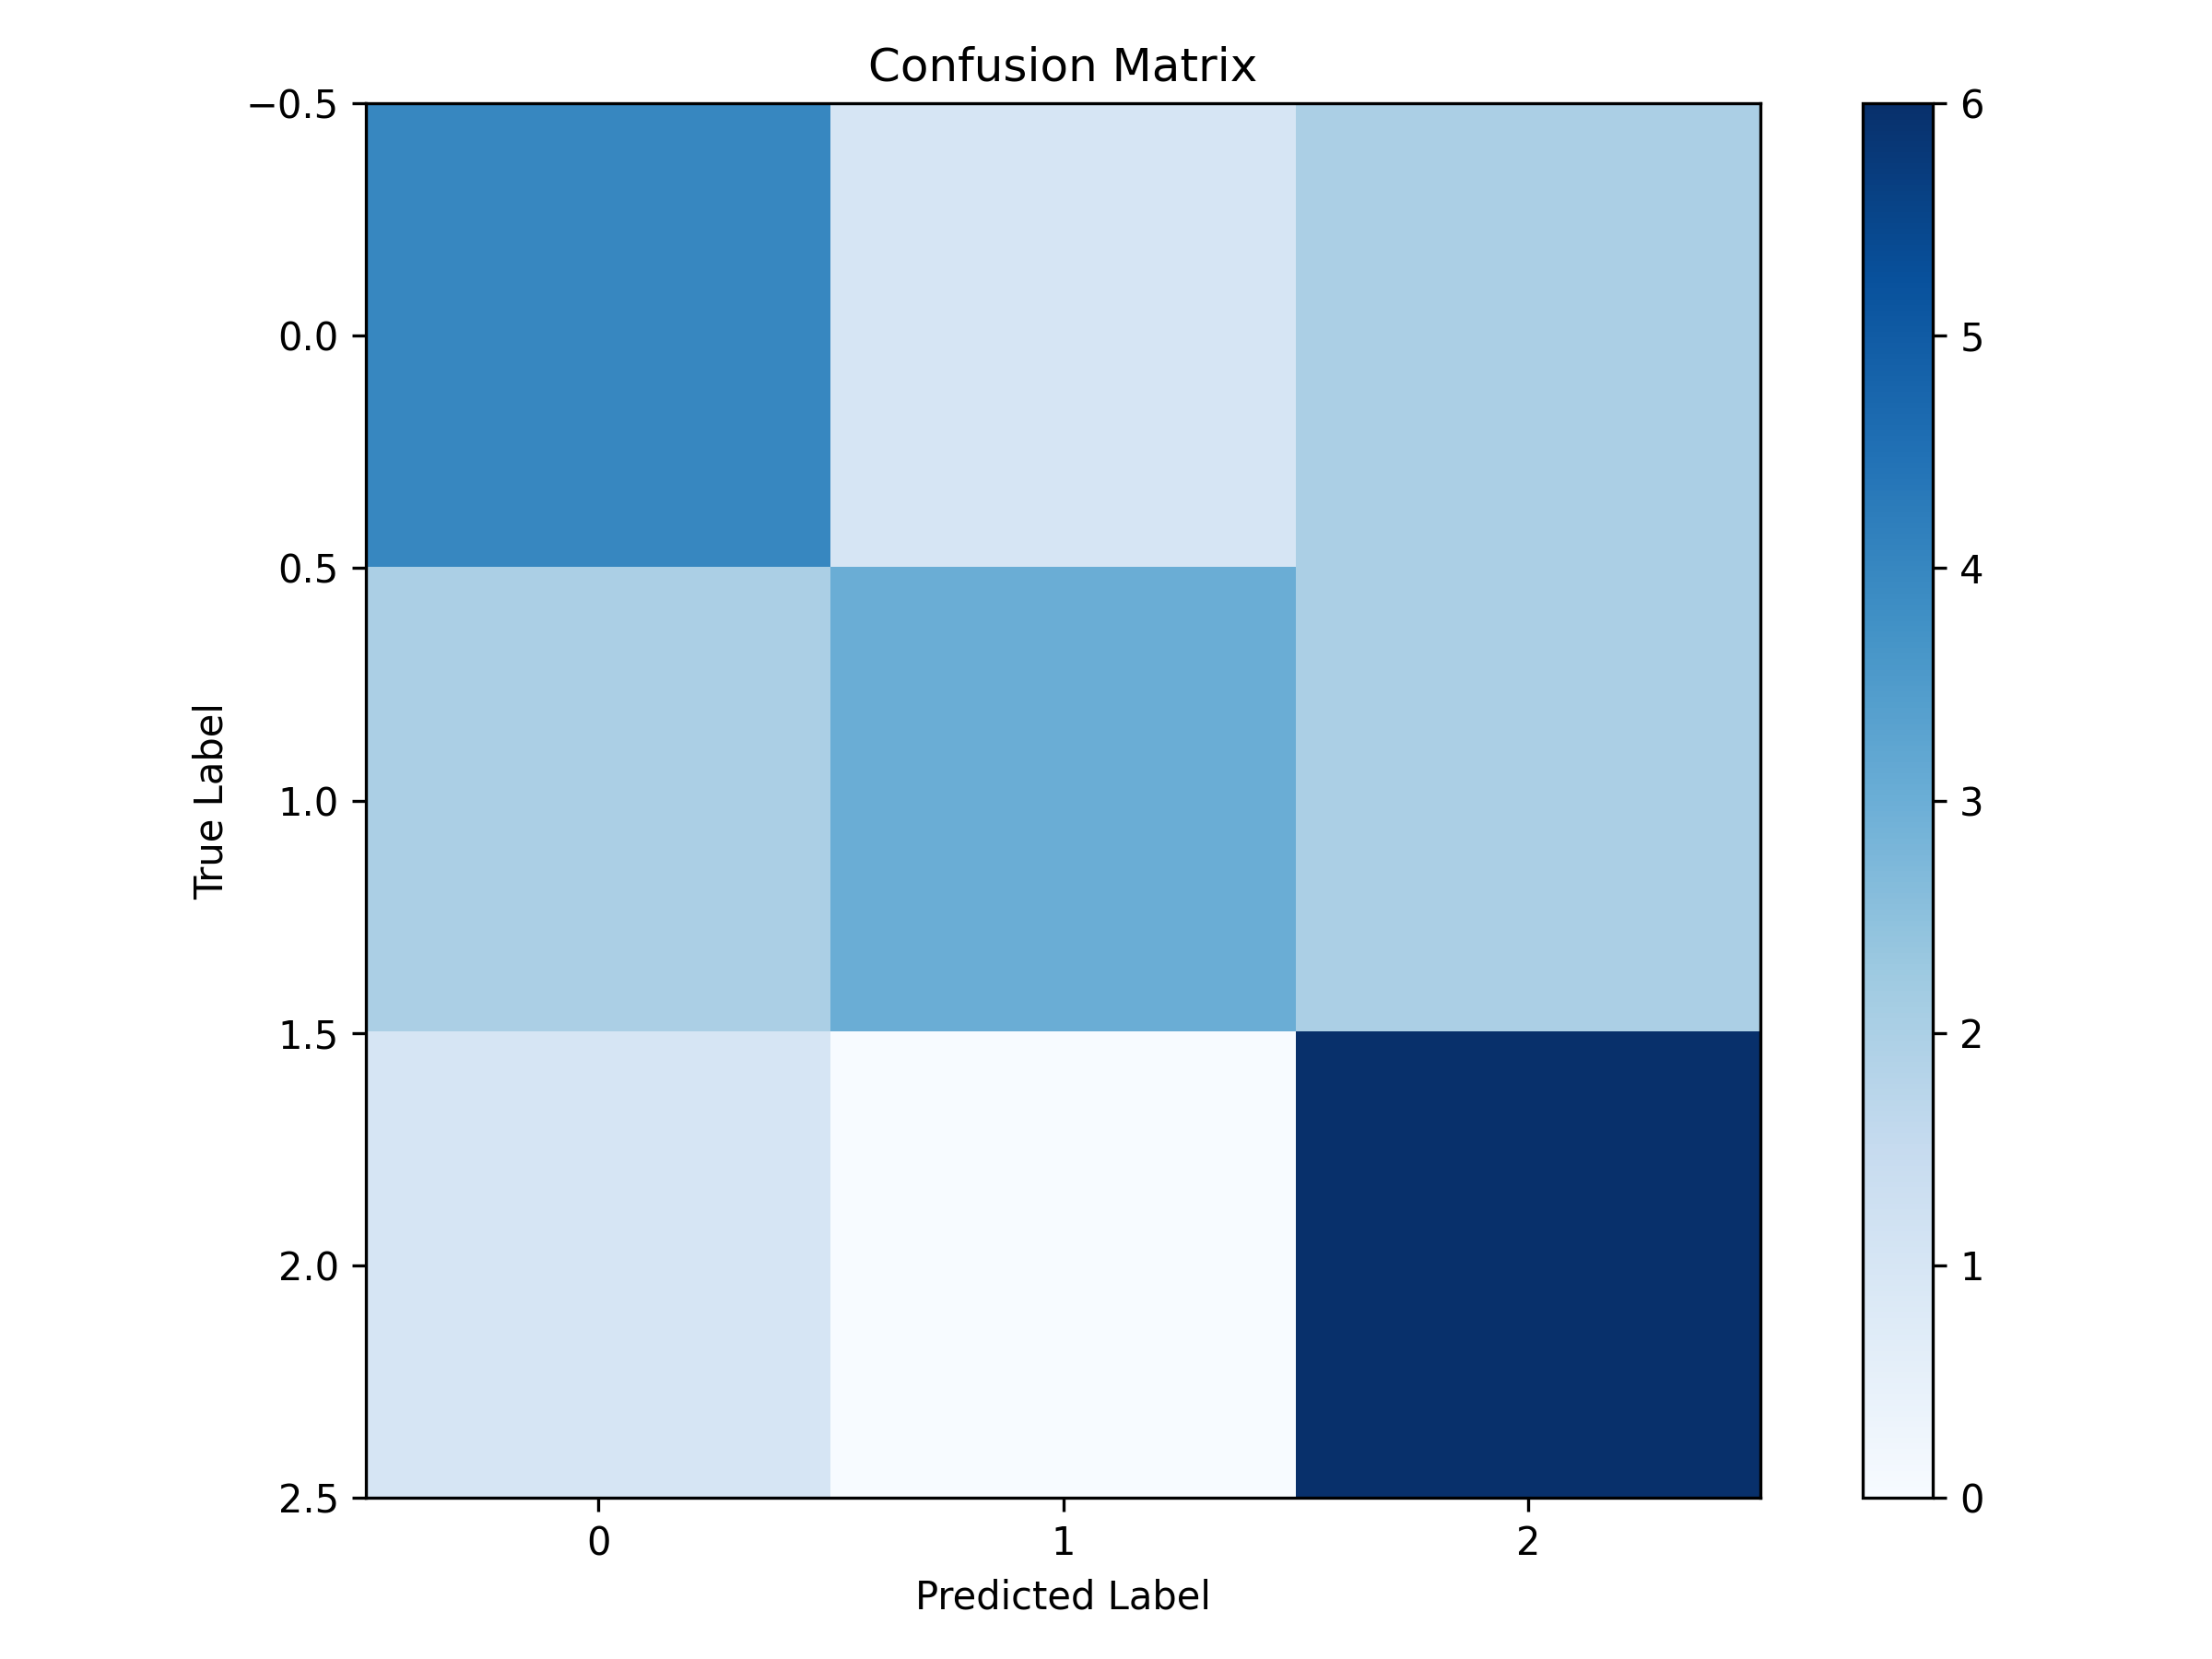
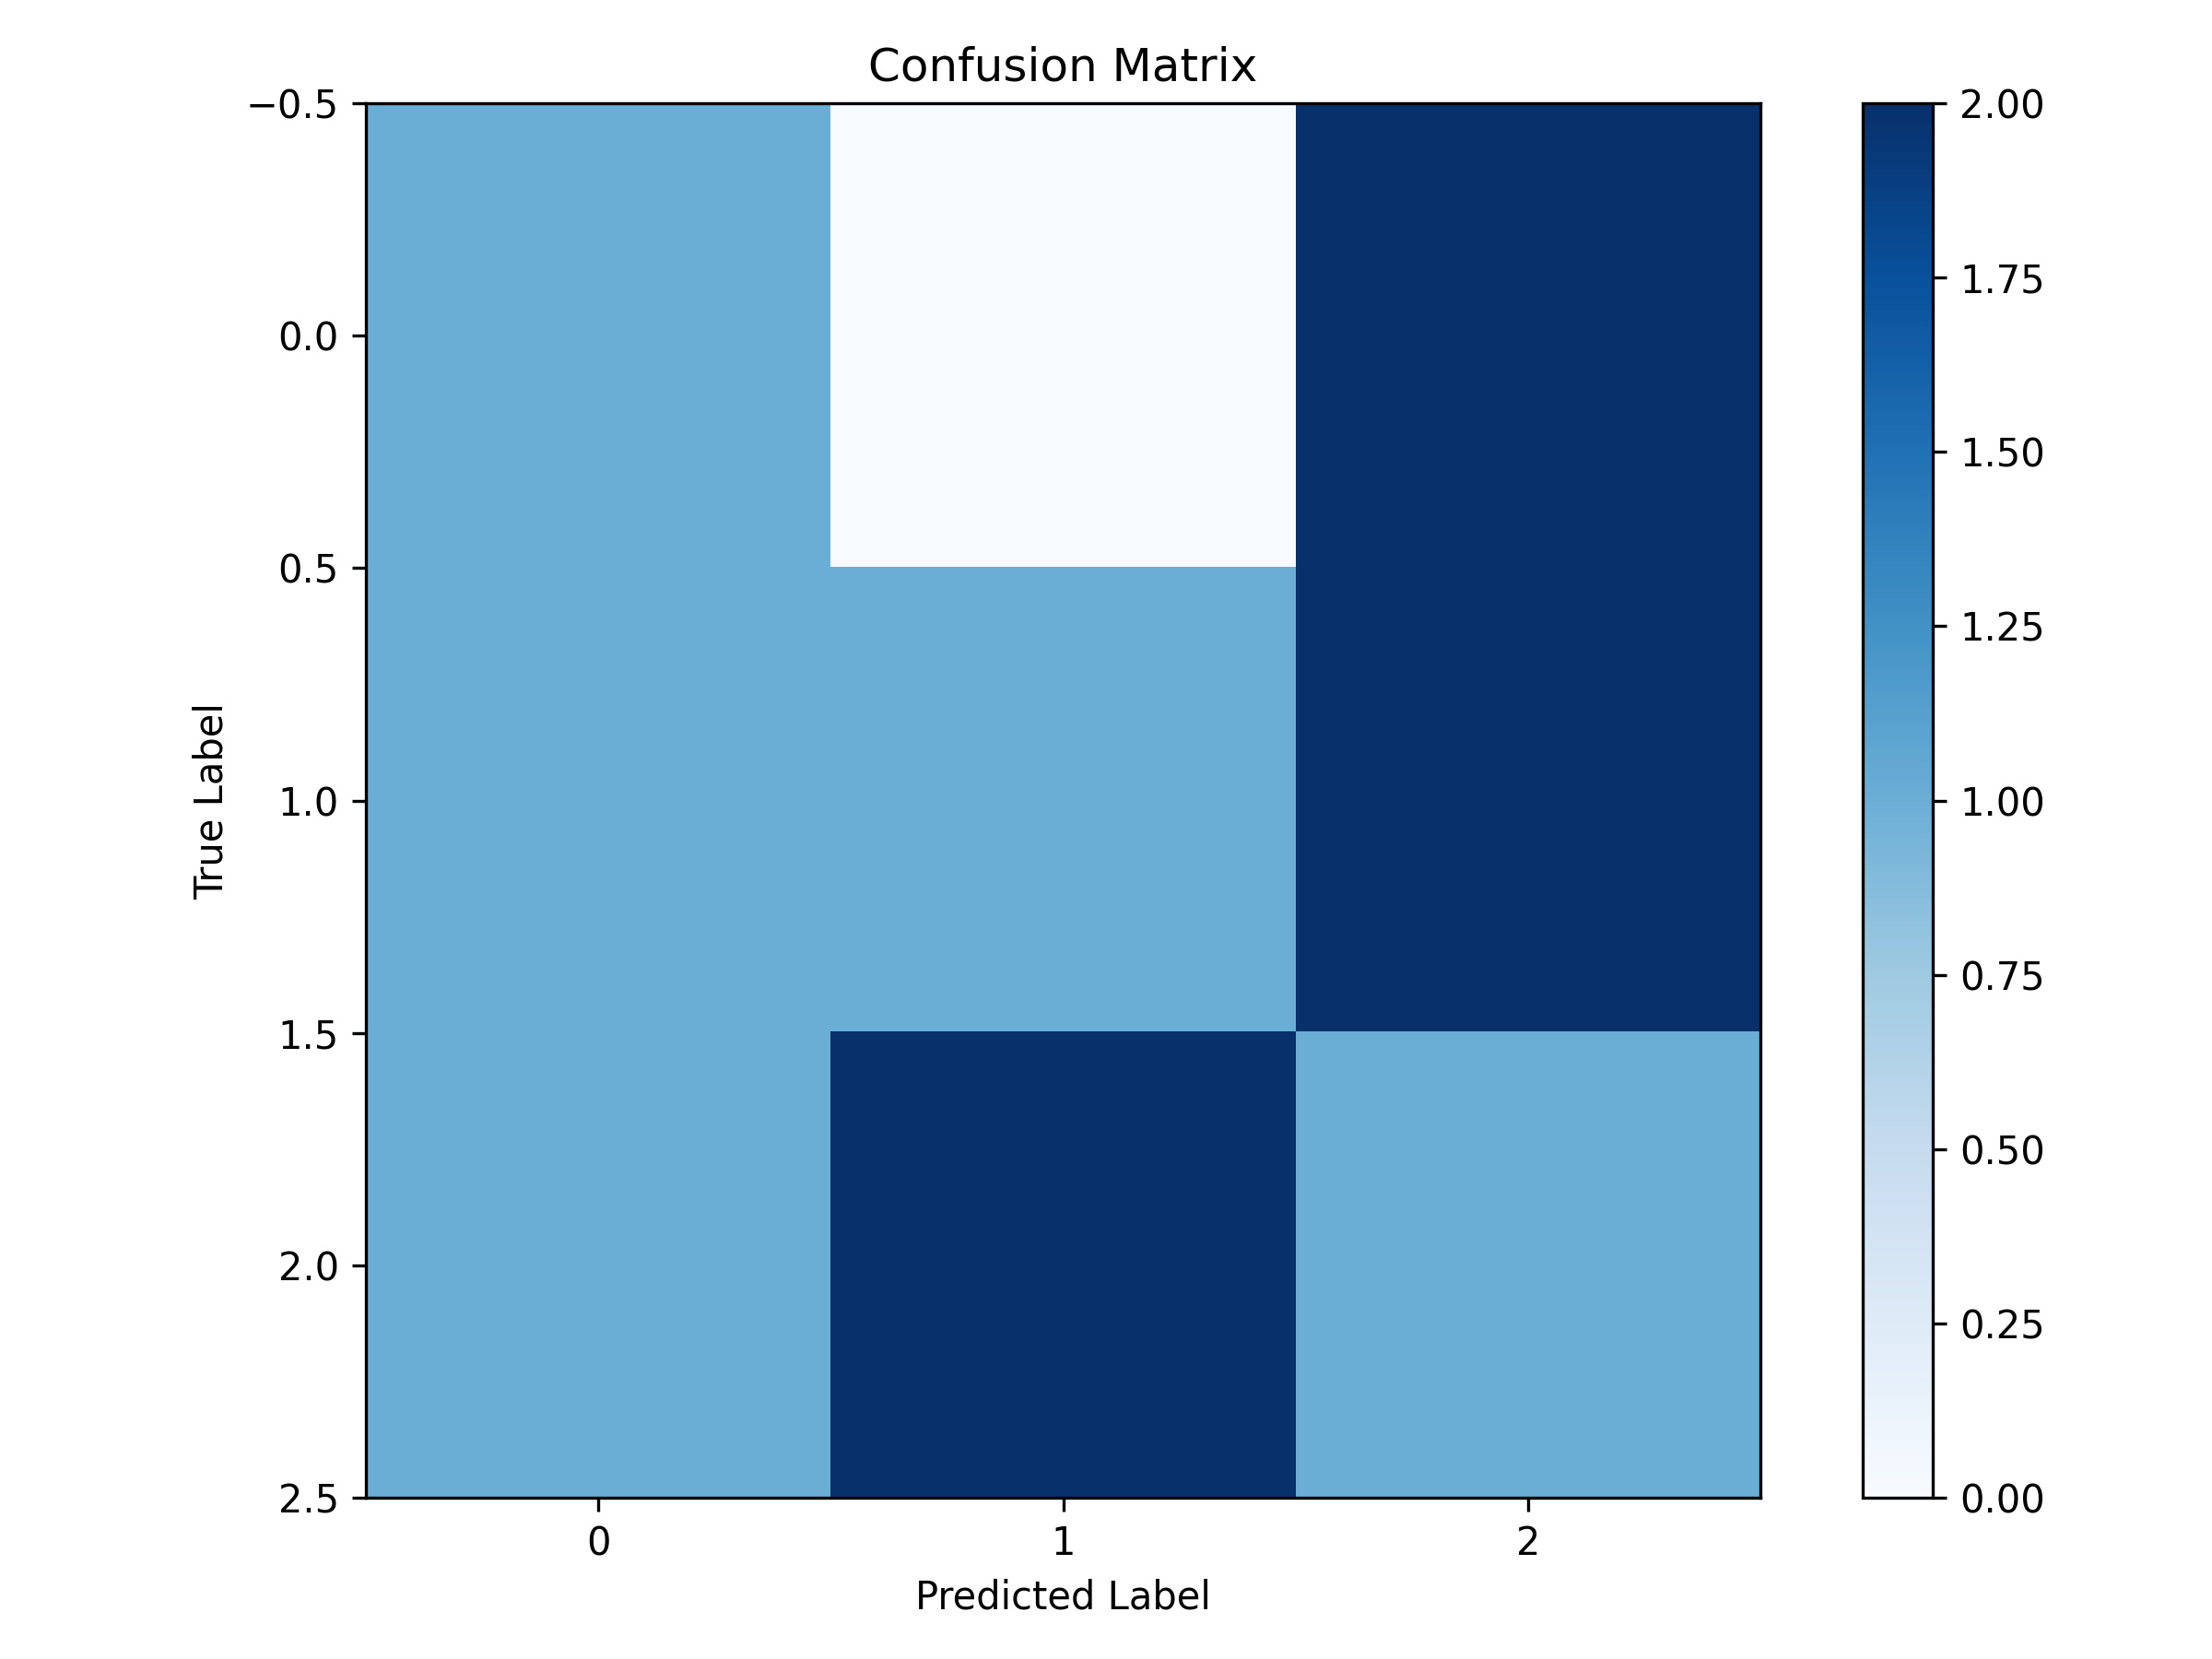
modified:   .gitignore 	modified:   Band_extractor.py 	# modified:   assisted_motor_imagery_experiment/modules/__pycache__/NeurofeedbackProcessor.cpython-310.pyc 	# modified:   assisted_motor_imagery_experiment/modules/__pycache__/config.cpython-310.pyc 	# modified:   assisted_motor_imagery_experime

diff --git a/assisted_motor_imagery_experiment/modules/config.py b/assisted_motor_imagery_experiment/modules/config.py
@@ -29,11 +29,11 @@ SAMPLE_RATE = 250  # Hz
 EEG_CHANNELS = ["CH1", "CH2", "CH3", "CH4", "CH5", "CH6", "CH7", "CH8"]
 
 # Motor Imagery Experiment Parameters
-NUM_TRIALS = 102  # Configurable number of trials
+NUM_TRIALS = 51  # Configurable number of trials
 READY_DURATION = 1.0  # seconds to show "Get Ready" message
 CUE_DURATION = 0.25  # seconds to show START/STOP cue
 INSTRUCTION_DURATION = 2.0  # seconds to show left/right instruction
-IMAGERY_DURATION = 3.0  # seconds for motor imagery
+IMAGERY_DURATION = 6.0  # seconds for motor imagery
 INTER_TRIAL_INTERVAL = 3.0  # seconds between trials
 #Whole trial is 9 seconds
 
@@ -69,7 +69,7 @@ BASELINE_END = -1.0     # End time for baseline period (seconds relative to imag
 INITIAL_BASELINE_DURATION = 10.0  # Duration of initial baseline period in seconds
 BASELINE_WEIGHT_INITIAL = 1.0     # Weight for initial baseline (0-1)
 BASELINE_WEIGHT_TRIAL = 0.0     # Weight for per-trial baseline (0-1)
-DISPLAY_REFRESH_RATE = 60  # Hz, target refresh rate for display updates
+DISPLAY_REFRESH_RATE = 100  # Hz, target refresh rate for display updates
 DISPLAY_UPDATE_INTERVAL = 1.0/DISPLAY_REFRESH_RATE  # seconds between display updates
 FEEDBACK_BAR_MAX_WIDTH = 1.2  # Maximum width of the feedback bar (normalized units)
 

diff --git a/bp_classifier.py b/bp_classifier.py
@@ -49,8 +49,8 @@ def create_pipeline():
 def main():
     print("Loading data...")
     X, y = load_data(
-        '.\data\processed\output_sorted_MI_EEG_20260412_150309.csv',
-        '.\data\processed\labels_sorted_MI_EEG_20260412_150309.csv'
+        '.\data\processed\output_sorted_MI_EEG_20260503_PranatiLast.csv',
+        '.\data\processed\labels_sorted_MI_EEG_20260503_PranatiLast.csv'
     )
     
     y = np.array(y, dtype=int)  # Ensure labels are integers

diff --git a/Band_extractor.py b/Band_extractor.py
@@ -102,7 +102,7 @@ def compute_erd_ers(epoch, fs, band, baseline_samples):
 # -------------------------
 # ---- MAIN PIPELINE	-----
 # -------------------------
-filename = "sorted_MI_EEG_20260412_150309.csv"
+filename = "sorted_MI_EEG_20260503_PranatiLast.csv"
 filepath = os.path.abspath(os.path.join("data", "raw", filename))
 
 